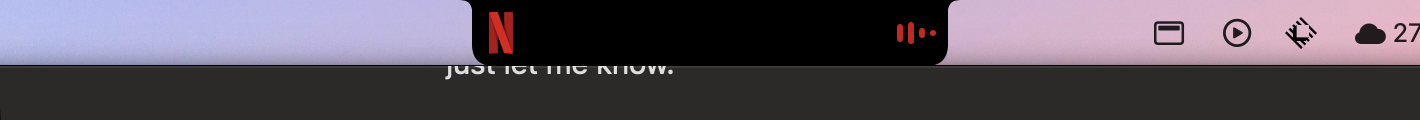
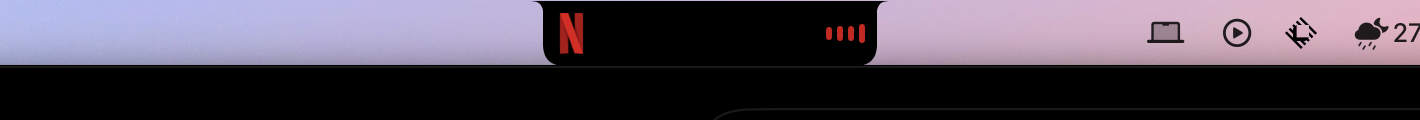
Keep the hosting view sized to the panel, bump to 0.2.0

diff --git a/Islet/App/AppDelegate.swift b/Islet/App/AppDelegate.swift
@@ -93,10 +93,14 @@ final class AppDelegate: NSObject, NSApplicationDelegate {
             let panel = NotchPanel(contentRect: model.panelFrame)
             let hosting = NotchHostingView(rootView: NotchRootView(model: model))
             hosting.frame = NSRect(origin: .zero, size: model.panelSize)
+            hosting.autoresizingMask = [.width, .height]
+            // The panel overlaps the notch safe area; SwiftUI must not inset content for it.
+            hosting.safeAreaRegions = []
             panel.contentView = hosting
             self.panel = panel
         }
         panel?.setFrame(model.panelFrame, display: true)
+        panel?.contentView?.frame = NSRect(origin: .zero, size: model.panelSize)
         panel?.sharingType = prefs.hideFromScreenCapture ? .none : .readOnly
         panel?.orderFrontRegardless()
     }
@@ -108,7 +112,10 @@ final class AppDelegate: NSObject, NSApplicationDelegate {
         case "globalHotkey": updateHotKey()
         case "notchHeightOffset", "notchWidthOffset":
             // Sizes are computed from the preference, so only the panel frame needs a refresh.
-            if let model { panel?.setFrame(model.panelFrame, display: true) }
+            if let model {
+                panel?.setFrame(model.panelFrame, display: true)
+                panel?.contentView?.frame = NSRect(origin: .zero, size: model.panelSize)
+            }
             model?.preferencesChanged(key: key)
         default: model?.preferencesChanged(key: key)
         }

diff --git a/CHANGELOG.md b/CHANGELOG.md
@@ -1,5 +1,18 @@
 # Changelog
 
+## 0.2.0
+
+- Settings now open in a real window with pages for every feature, permission status, and a reset button.
+- The island is one opaque shape again, with a boundary-free progressive blur halo around it.
+- HUD peeks stay visible for two seconds, restart on every change, and are never cut short by another peek.
+- The system volume and brightness bezels are hidden by default while Islet runs. Turn this off under Sound.
+- Brightness and keyboard backlight HUDs only react to key presses, so automatic dimming no longer shows a peek.
+- Full screen detection uses the menu bar state, so large windows no longer hide the island.
+- Shuffle and repeat use the MediaRemote toggle commands and react immediately.
+- The shelf has a Home button, the island returns to Home on close, and a two-finger swipe switches tabs.
+- Streams without a timeline, such as Netflix, no longer show a broken scrubber.
+- Content fades out quickly on close so nothing lingers while the shape collapses.
+
 ## 0.1.0
 
 First public release.
